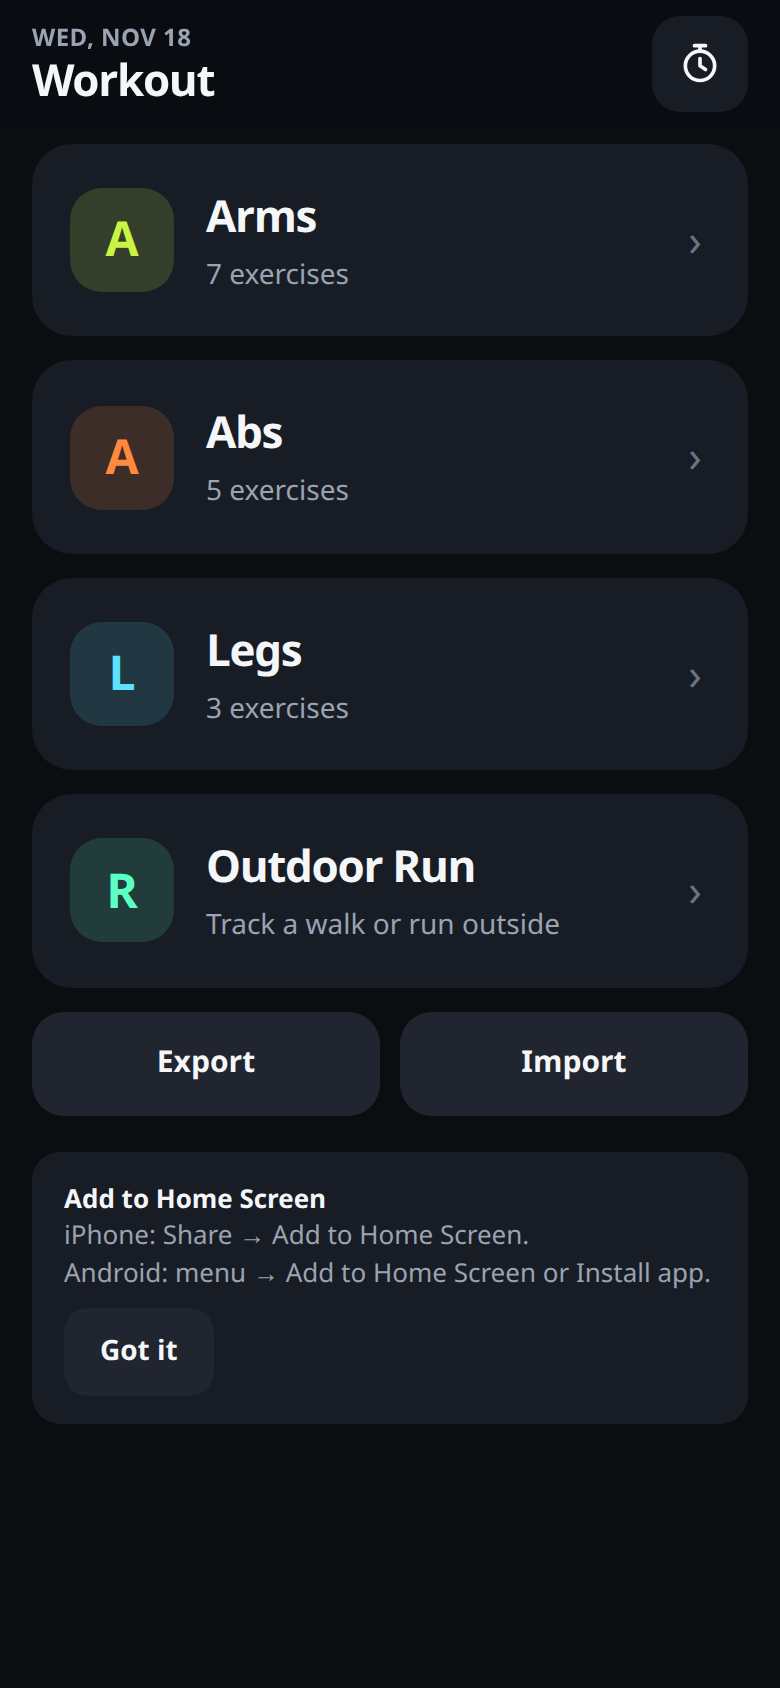
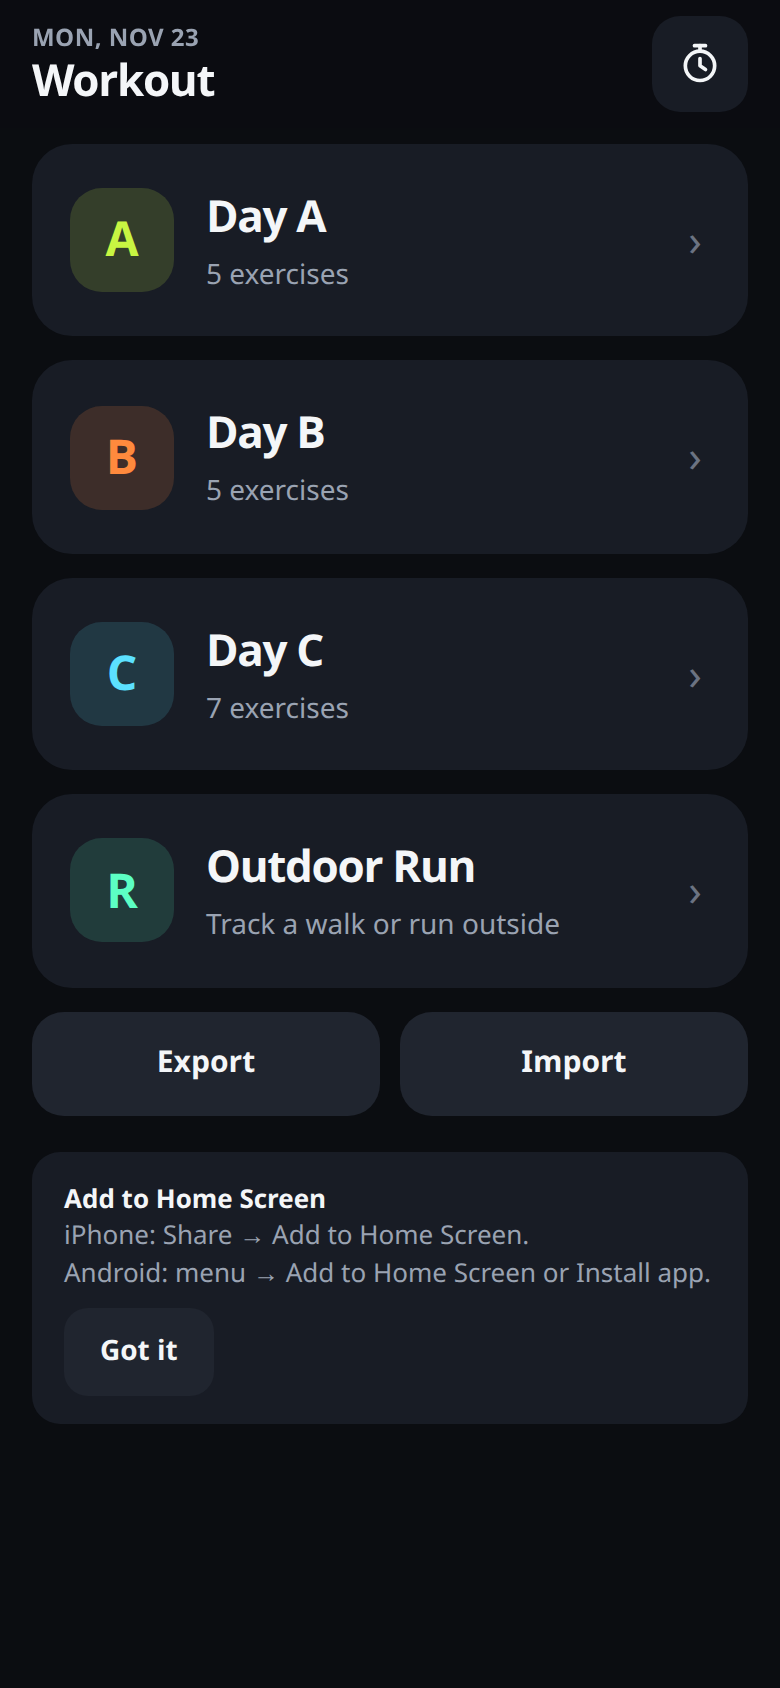
Replace the home plan with Phase 1 days A, B, and C.
Old Arms, Abs, and Legs logs stay in a previous-plan section. Each new exercise prefills weight and reps, and the Day C treadmill keeps adjustable speeds. The service worker cache is workout-v7.

diff --git a/app.js b/app.js
@@ -75,105 +75,92 @@
     return Array.from({ length: count }, () => ({ targetReps: reps, weight }));
   }
 
-  function defaultData() {
-    return {
-      version: 1,
-      groups: [
-        {
-          id: "arms",
-          name: "Arms",
-          exercises: [
-            ex("Push up", { bodyweight: true, sets: 3, reps: 23 }),
-            ex("Chest press", { weight: 45, note: "blue lever adjusted", sets: 2, reps: 18 }),
-            ex("Pull weight to chest", { weight: 45, note: "blue lever adjusted", sets: 2, reps: 13 }),
-            ex("Bicep curl", { weight: 35, note: "blue lever adjusted", sets: 2, reps: 23 }),
-            ex("Chest wings", { weight: 25, note: "blue lever adjusted", sets: 2, reps: 25 }),
-            ex("Chest weight push up", { weight: 25, note: "blue lever adjusted", sets: 2, reps: 35 }),
-            ex("2-handed tricep curl", { weight: 45, note: "blue lever adjusted", sets: 2, reps: 22 })
-          ]
-        },
-        {
-          id: "abs",
-          name: "Abs",
-          exercises: [
-            ex("Hip thrust", { weight: 55, note: "blue lever adjusted", sets: 2, reps: 55 }),
-            ex("Crunches with feet in air", { bodyweight: true, sets: 2, reps: 55 }),
-            ex("Left/right crunches with feet in air", {
-              bodyweight: true,
-              sets: 2,
-              reps: 50,
-              notes: "Each rep is a left and a right"
-            }),
-            ex("Leg raise V crunch", { bodyweight: true, sets: 2, reps: 30 }),
-            ex("Leg raise circles clockwise/counterclockwise", {
-              bodyweight: true,
-              sets: 2,
-              reps: 30,
-              notes: "30 reps each direction"
-            })
-          ]
-        },
-        {
-          id: "legs",
-          name: "Legs",
-          exercises: [
-            {
-              id: uid(),
-              name: "Treadmill run",
-              equipmentNote: "",
-              notes: "",
-              isBodyweight: true,
-              sets: [
-                { targetReps: 0, weight: 0 },
-                { targetReps: 0, weight: 0 }
-              ],
-              stages: [
-                { label: "Walk", duration: "3 min", setting: "3.5" },
-                { label: "Jog", duration: "4 min", setting: "7.1" },
-                { label: "Sprint", duration: "1 min", setting: "10.5" }
-              ],
-              history: []
-            },
-            {
-              id: uid(),
-              name: "Leg machine",
-              equipmentNote: "lever adjusted",
-              notes: "",
-              isBodyweight: false,
-              sets: [
-                { targetReps: 19, weight: 130 },
-                { targetReps: 17, weight: 130 },
-                { targetReps: 15, weight: 130 }
-              ],
-              stages: null,
-              history: []
-            },
-            ex("Calf raise", {
-              weight: 20,
-              note: "both 20 lb weights on shoulders",
-              sets: 3,
-              reps: 35
-            })
-          ]
-        }
-      ],
-      activeSession: null,
-      installTipDismissed: false,
-      runs: []
-    };
-  }
-
   function ex(name, opts) {
     const weight = opts.bodyweight ? 0 : (opts.weight || 0);
+    const reps = opts.reps != null ? opts.reps : (opts.repMin || 0);
     return {
-      id: uid(),
+      id: opts.id || uid(),
       name,
       equipmentNote: opts.note || "",
       notes: opts.notes || "",
       isBodyweight: !!opts.bodyweight,
-      sets: setsOf(opts.sets, opts.reps, weight),
-      stages: null,
-      history: []
+      sets: setsOf(opts.sets || 1, reps, weight),
+      stages: opts.stages || null,
+      history: opts.history || [],
+      repMin: opts.repMin || 0,
+      repMax: opts.repMax || 0,
+      weightStep: opts.step || 0,
+      logUnit: opts.unit || "reps"
+    };
+  }
+
+  function treadmillIntervals() {
+    return ex("Treadmill intervals", {
+      id: "c-treadmill",
+      bodyweight: true,
+      sets: 2,
+      reps: 0,
+      notes: "2 rounds",
+      stages: [
+        { label: "Walk", duration: "3 min", setting: "3.5" },
+        { label: "Jog", duration: "4 min", setting: "7.1" },
+        { label: "Sprint", duration: "1 min", setting: "10.5" }
+      ]
+    });
+  }
+
+  function phase1Groups() {
+    const db = (name, id, sets, repMin, repMax, weight, notes) =>
+      ex(name, { id, sets, repMin, repMax, reps: repMin, weight, step: 5, notes });
+    return [
+      {
+        id: "day-a",
+        name: "Day A",
+        mark: "A",
+        exercises: [
+          db("Goblet squat to box", "a-squat", 3, 10, 12, 50, "one 50 lb dumbbell"),
+          db("DB bench/floor press", "a-press", 3, 8, 12, 50, ""),
+          db("One-arm DB row", "a-row", 3, 10, 12, 45, "per side"),
+          ex("Leg curl (machine)", { id: "a-curl", sets: 3, repMin: 12, repMax: 15, reps: 12, weight: 150, step: 10 }),
+          ex("Plank", { id: "a-plank", bodyweight: true, sets: 3, repMin: 30, repMax: 45, reps: 30, unit: "sec", notes: "log seconds" })
+        ]
+      },
+      {
+        id: "day-b",
+        name: "Day B",
+        mark: "B",
+        exercises: [
+          db("DB Romanian deadlift", "b-rdl", 3, 10, 12, 45, ""),
+          db("Seated DB shoulder press", "b-press", 3, 8, 12, 30, ""),
+          ex("Push-ups", { id: "b-push", bodyweight: true, sets: 3, reps: 8, notes: "2 reps short of failure" }),
+          ex("Leg extension (machine)", { id: "b-ext", sets: 3, repMin: 12, repMax: 15, reps: 12, weight: 150, step: 10 }),
+          ex("Dead bug", { id: "b-bug", bodyweight: true, sets: 3, repMin: 10, repMax: 10, reps: 10, notes: "per side" })
+        ]
+      },
+      {
+        id: "day-c",
+        name: "Day C",
+        mark: "C",
+        exercises: [
+          db("DB hip thrust", "c-thrust", 3, 12, 15, 55, "one 55 lb dumbbell · 2 s squeeze"),
+          db("Incline DB press", "c-incline", 3, 8, 12, 45, ""),
+          db("Two-arm DB row", "c-row", 3, 10, 12, 40, ""),
+          db("Calf raise", "c-calf", 3, 15, 20, 30, "30 lb each hand · 1 s pause"),
+          db("DB curl", "c-curl", 2, 10, 12, 40, ""),
+          db("Overhead triceps extension", "c-tri", 2, 10, 12, 45, "one 45 lb dumbbell"),
+          treadmillIntervals()
+        ]
+      }
+    ];
+  }
+
+  function defaultData() {
+    return {
+      version: 1,
+      groups: phase1Groups(),
+      activeSession: null,
+      installTipDismissed: false,
+      runs: []
     };
   }
 
@@ -199,7 +186,16 @@
       parsed.runs = [];
       changed = true;
     }
-    for (const group of parsed.groups || []) {
+    parsed.groups = parsed.groups || [];
+    if (!parsed.groups.some((g) => g.id === "day-a")) {
+      parsed.groups = phase1Groups().concat(parsed.groups);
+      changed = true;
+    }
+    for (const group of parsed.groups) {
+      if ((group.id === "arms" || group.id === "abs" || group.id === "legs") && !group.archived) {
+        group.archived = true;
+        changed = true;
+      }
       for (const exercise of group.exercises || []) {
         if (exercise && exercise.name === "Leg machine up") {
           exercise.name = "Leg machine";
@@ -422,6 +418,21 @@
     return weight + " lb";
   }
 
+  function targetLine(exercise, weight) {
+    const unit = exercise.logUnit === "sec" ? " s" : "";
+    let range = "";
+    if (exercise.repMax) {
+      range = exercise.repMin && exercise.repMin !== exercise.repMax
+        ? exercise.repMin + "–" + exercise.repMax + unit
+        : String(exercise.repMax) + unit;
+    }
+    const bits = [];
+    if (exercise.logUnit !== "sec") bits.push(weightLabel(weight, exercise.isBodyweight));
+    if (range) bits.push(range);
+    if (exercise.equipmentNote) bits.push(exercise.equipmentNote);
+    return bits.join(" · ");
+  }
+
   function lastUsed(exercise) {
     if (exercise.history && exercise.history[0]) {
       const last = exercise.history[0];
@@ -504,13 +515,13 @@
            </div>
          </button>` : "";
 
-    const cards = data.groups.map((g) => {
+    const card = (g) => {
       const progress = groupProgress(g);
       const sub = progress.done
         ? `${progress.done}/${progress.total} sets today · ${g.exercises.length} exercises`
         : `${g.exercises.length} exercises`;
-      const letter = g.name[0];
-      return `<button class="group-card ${escapeHtml(g.id)}" data-act="open-group" data-id="${escapeHtml(g.id)}">
+      const letter = g.mark || g.name[0];
+      return `<button class="group-card ${escapeHtml(g.id)}${g.archived ? " archived" : ""}" data-act="open-group" data-id="${escapeHtml(g.id)}">
         <div class="group-mark">${escapeHtml(letter)}</div>
         <div class="group-meta">
           <h2>${escapeHtml(g.name)}</h2>
@@ -518,7 +529,12 @@
         </div>
         <div class="chev">›</div>
       </button>`;
-    }).join("");
+    };
+    const current = data.groups.filter((g) => !g.archived).map(card).join("");
+    const previous = data.groups.filter((g) => g.archived);
+    const previousHtml = previous.length
+      ? `<h2 class="prev-head">Previous plan</h2>${previous.map(card).join("")}`
+      : "";
 
     const tip = data.installTipDismissed ? "" : `
       <div class="tip install-tip">
@@ -540,7 +556,8 @@
       <div class="page">
         ${banner}
         ${runBanner}
-        ${cards}
+        ${current}
+        ${previousHtml}
         ${renderRunCard()}
         <div class="home-actions">
           <button class="btn" data-act="export">Export</button>
@@ -577,6 +594,7 @@
         ${timerButtonHtml()}
       </header>
       <div class="page group-page">
+        ${group.archived ? "" : `<p class="day-rest">Rest 60-90 s</p>`}
         ${cards}
         <button class="add-ex" data-act="add-exercise" data-group="${escapeHtml(group.id)}">+ Add exercise</button>
         <div class="row-actions">
@@ -592,8 +610,11 @@
       ? ui.selected.setIndex
       : null;
     const last = lastUsed(exercise);
-    const lastLine = last ? ` · Last ${formatLongDate(last.date)}` : "";
+    const lastLine = last
+      ? ` · Last ${last.reps.join("/")}${exercise.logUnit === "sec" ? " s" : "×" + (last.weights[0] ? last.weights[0] + " lb" : "BW")}`
+      : "";
     const defaultWeight = exercise.sets[0] ? exercise.sets[0].weight : 0;
+    const isSec = exercise.logUnit === "sec";
     const isTimed = !!(exercise.stages && exercise.stages.length);
     const setIndex = isTimed ? currentSetIndex(exercise) : selected;
     const stages = isTimed ? renderStages(exercise, sets, setIndex) : "";
@@ -601,8 +622,8 @@
       const cls = ["set-btn"];
       if (s.done) cls.push("done");
       if (selected === i) cls.push("selected");
-      const reps = String(s.reps);
-      const wt = s.weight ? s.weight + " lb" : "BW";
+      const reps = isSec ? s.reps + "s" : String(s.reps);
+      const wt = isSec ? "time" : (s.weight ? s.weight + " lb" : "BW");
       return `<button class="${cls.join(" ")}" data-act="tap-set" data-ex="${exercise.id}" data-i="${i}">
         <span class="lbl">Set ${i + 1}</span>
         <span class="reps">${escapeHtml(reps)}</span>
@@ -615,7 +636,7 @@
     const adjust = showAdjust && cur ? `
       <div class="adjust${cur && (exercise.isBodyweight && cur.weight === 0) ? "" : ""}">
         <div class="stepper-wrap">
-          <div class="kind-lbl">Reps</div>
+          <div class="kind-lbl">${isSec ? "Seconds" : "Reps"}</div>
           <div class="stepper">
             <button data-act="step" data-ex="${exercise.id}" data-i="${selected}" data-field="reps" data-dir="-1" aria-label="Decrease reps">−</button>
             <div class="val">${cur.reps}</div>
@@ -636,7 +657,7 @@
       <div class="ex-head">
         <h3>${escapeHtml(exercise.name)}</h3>
       </div>
-      <p class="ex-last">${escapeHtml(weightLabel(defaultWeight, exercise.isBodyweight))}${exercise.equipmentNote ? " · " + escapeHtml(exercise.equipmentNote) : ""}${escapeHtml(lastLine)}</p>
+      <p class="ex-last">${escapeHtml(targetLine(exercise, defaultWeight))}${escapeHtml(lastLine)}</p>
       ${exercise.notes ? `<p class="ex-note">${escapeHtml(exercise.notes)}</p>` : ""}
       ${stages}
       <div class="sets">${setBtns}</div>
@@ -1304,7 +1325,7 @@
       const sets = workingSets(found.exercise).map((s) => ({ ...s }));
       if (field === "reps") sets[i].reps = Math.max(0, sets[i].reps + dir);
       if (field === "weight") {
-        const step = WEIGHT_STEP;
+        const step = found.exercise.weightStep || WEIGHT_STEP;
         sets[i].weight = Math.max(0, sets[i].weight + dir * step);
       }
       ui.selected = { exerciseId: id, setIndex: i };

diff --git a/sw.js b/sw.js
@@ -1,13 +1,13 @@
-const CACHE = "workout-v6";
-const VER = "6";
+const CACHE = "workout-v7";
+const VER = "7";
 const ASSETS = [
-  { url: "./index.html?v=6", keys: ["./", "./index.html", "./index.html?v=6"] },
-  { url: "./styles.css?v=6", keys: ["./styles.css", "./styles.css?v=6"] },
-  { url: "./app.js?v=6", keys: ["./app.js", "./app.js?v=6"] },
-  { url: "./run-math.js?v=6", keys: ["./run-math.js", "./run-math.js?v=6"] },
-  { url: "./vendor/leaflet/leaflet.css?v=6", keys: ["./vendor/leaflet/leaflet.css", "./vendor/leaflet/leaflet.css?v=6"] },
-  { url: "./vendor/leaflet/leaflet.js?v=6", keys: ["./vendor/leaflet/leaflet.js", "./vendor/leaflet/leaflet.js?v=6"] },
-  { url: "./manifest.json?v=6", keys: ["./manifest.json", "./manifest.json?v=6"] },
+  { url: "./index.html?v=7", keys: ["./", "./index.html", "./index.html?v=7"] },
+  { url: "./styles.css?v=7", keys: ["./styles.css", "./styles.css?v=7"] },
+  { url: "./app.js?v=7", keys: ["./app.js", "./app.js?v=7"] },
+  { url: "./run-math.js?v=7", keys: ["./run-math.js", "./run-math.js?v=7"] },
+  { url: "./vendor/leaflet/leaflet.css?v=7", keys: ["./vendor/leaflet/leaflet.css", "./vendor/leaflet/leaflet.css?v=7"] },
+  { url: "./vendor/leaflet/leaflet.js?v=7", keys: ["./vendor/leaflet/leaflet.js", "./vendor/leaflet/leaflet.js?v=7"] },
+  { url: "./manifest.json?v=7", keys: ["./manifest.json", "./manifest.json?v=7"] },
   { url: "./icons/icon-192.png", keys: ["./icons/icon-192.png"] },
   { url: "./icons/icon-512.png", keys: ["./icons/icon-512.png"] },
   { url: "./icons/icon-512-maskable.png", keys: ["./icons/icon-512-maskable.png"] },

diff --git a/styles.css b/styles.css
@@ -196,9 +196,23 @@ textarea { resize: vertical; min-height: 80px; }
   flex-shrink: 0;
 }
 
-.group-card.arms .group-mark { background: var(--accent-dim); color: var(--accent); }
-.group-card.abs .group-mark { background: rgba(255, 138, 61, 0.16); color: var(--orange); }
-.group-card.legs .group-mark { background: rgba(92, 225, 255, 0.14); color: var(--cyan); }
+.group-card.arms .group-mark, .group-card.day-a .group-mark { background: var(--accent-dim); color: var(--accent); }
+.group-card.abs .group-mark, .group-card.day-b .group-mark { background: rgba(255, 138, 61, 0.16); color: var(--orange); }
+.group-card.legs .group-mark, .group-card.day-c .group-mark { background: rgba(92, 225, 255, 0.14); color: var(--cyan); }
+.prev-head {
+  margin: 18px 4px 8px;
+  font-size: 12px;
+  font-weight: 750;
+  letter-spacing: 0.08em;
+  text-transform: uppercase;
+  color: var(--text-faint);
+}
+.day-rest {
+  margin: 0 0 12px;
+  color: var(--text-dim);
+  font-size: 13px;
+  font-weight: 650;
+}
 .group-card.run .group-mark { background: rgba(92, 255, 196, 0.14); color: #5CFFC4; }
 
 .group-meta { flex: 1; min-width: 0; }

diff --git a/index.html b/index.html
@@ -13,8 +13,8 @@
   <link rel="manifest" href="manifest.json">
   <link rel="apple-touch-icon" href="icons/apple-touch-icon.png">
   <link rel="icon" type="image/png" href="icons/favicon.png">
-  <link rel="stylesheet" href="vendor/leaflet/leaflet.css?v=6">
-  <link rel="stylesheet" href="styles.css?v=6">
+  <link rel="stylesheet" href="vendor/leaflet/leaflet.css?v=7">
+  <link rel="stylesheet" href="styles.css?v=7">
 </head>
 <body>
   <div id="app"></div>
@@ -24,8 +24,8 @@
     <span>Update available</span>
     <button type="button" data-act="reload-app">Reload</button>
   </div>
-  <script src="vendor/leaflet/leaflet.js?v=6"></script>
-  <script src="run-math.js?v=6"></script>
-  <script src="app.js?v=6"></script>
+  <script src="vendor/leaflet/leaflet.js?v=7"></script>
+  <script src="run-math.js?v=7"></script>
+  <script src="app.js?v=7"></script>
 </body>
 </html>
